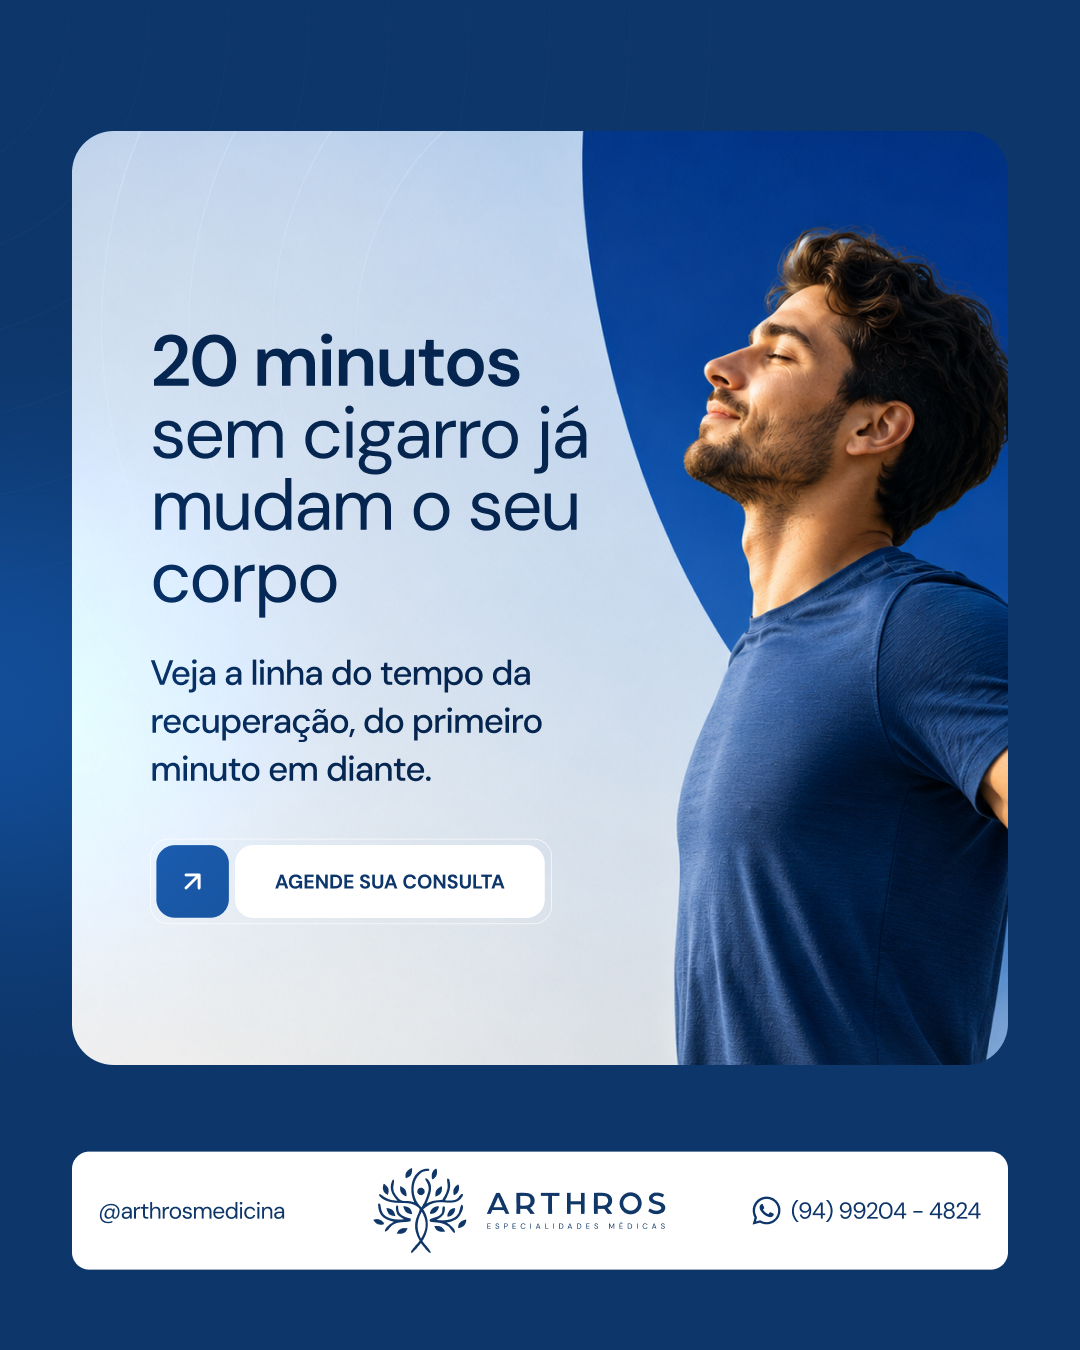
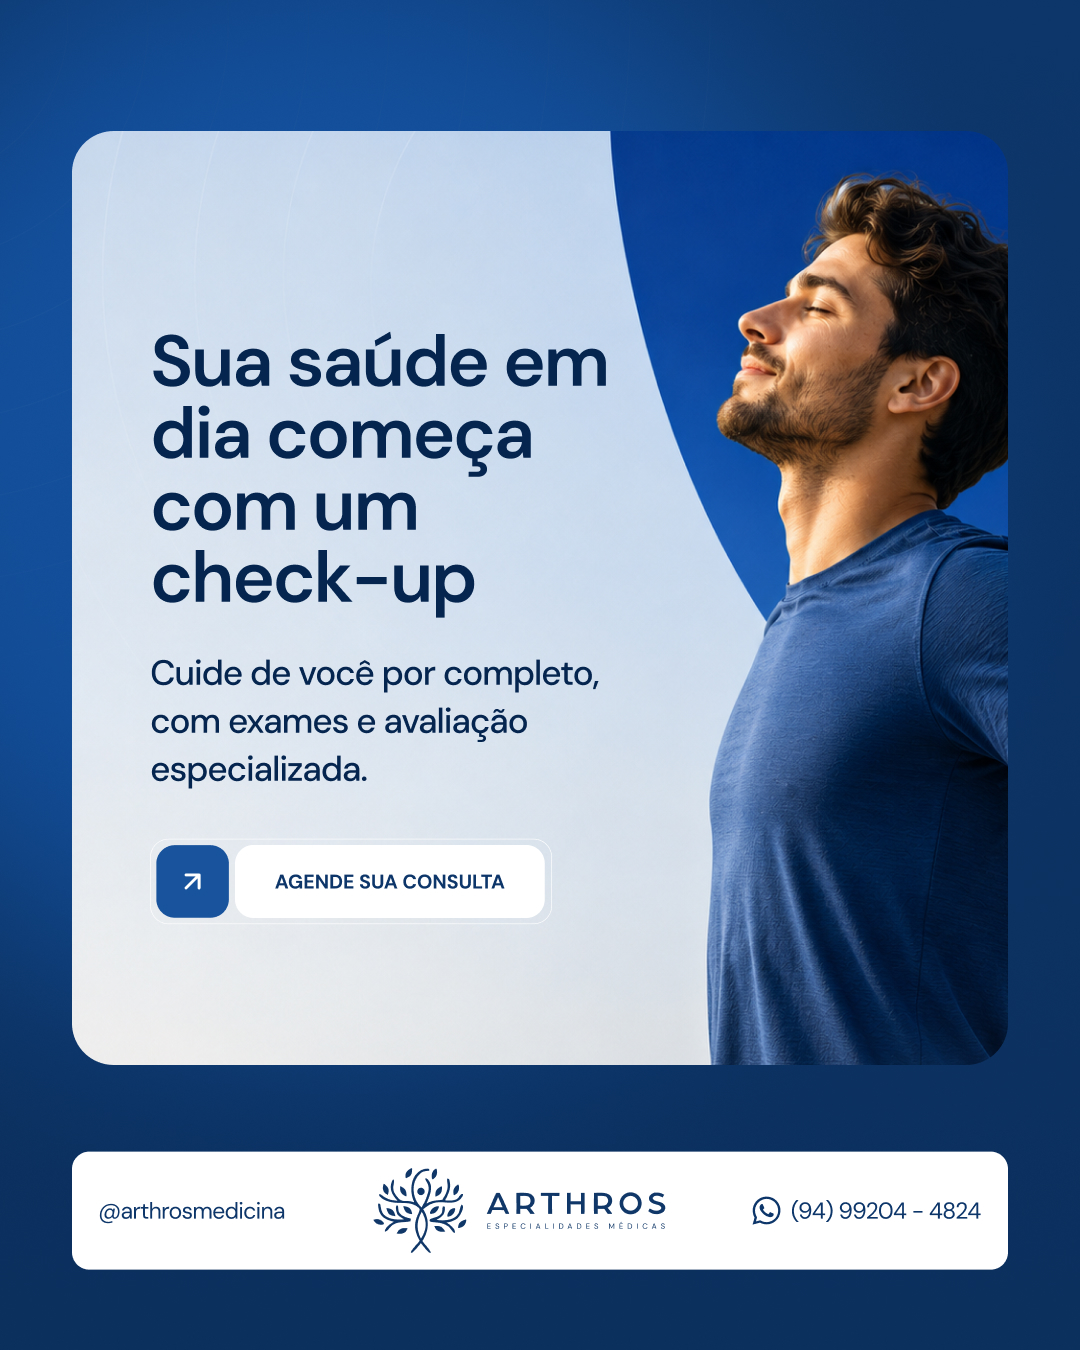
Troca post 4 (Arthros agosto) de vídeo para arte e atualiza post 7
- Post 4 (Estiagem) deixa de ser vídeo/iframe e passa a usar a arte
  final (img/post4.jpg).
- Post 7 (Check-up Completo) recebe a arte final atualizada
  (img/post7.jpg).
- Ajusta timeline, hero e cards de campanha que ainda citavam vídeo.

diff --git a/arthros/agosto/index.html b/arthros/agosto/index.html
@@ -177,7 +177,7 @@ nav { position:fixed; top:0; left:0; right:0; z-index:100; background:rgba(255,2
   <div style="position:relative;z-index:1;width:100%;">
     <div class="hero-tag">Linha Editorial · Agosto 2026</div>
     <h1 class="hero-title">Calendário<br><span>Editorial</span></h1>
-    <p class="hero-sub">7 posts distribuídos por todas as semanas de agosto, com título, subtítulo, CTA, legenda e hashtags prontos para publicar. 6 artes e 1 vídeo.</p>
+    <p class="hero-sub">8 posts distribuídos por todas as semanas de agosto, com título, subtítulo, CTA, legenda e hashtags prontos para publicar.</p>
     <div class="hero-stats">
       <div class="hero-stat"><span class="hero-stat-val">7</span><span class="hero-stat-lbl">Posts</span></div>
       <div class="hero-stat"><span class="hero-stat-val">6</span><span class="hero-stat-lbl">Comemorativos</span></div>
@@ -284,7 +284,7 @@ nav { position:fixed; top:0; left:0; right:0; z-index:100; background:rgba(255,2
           <div class="tl-item">
             <div class="tl-date"><div class="tl-day">13</div><div class="tl-weekday">Quinta</div></div>
             <div class="tl-line"></div>
-            <div class="tl-content"><span class="tl-badge badge-post">Post #4 · Vídeo</span><div class="tl-titulo">Tempo seco em Parauapebas? Seu nariz sente primeiro</div><div class="tl-formato">Vídeo · Otorrino / Pneumologia</div></div>
+            <div class="tl-content"><span class="tl-badge badge-post">Post #4 · Estiagem</span><div class="tl-titulo">Tempo seco em Parauapebas? Seu nariz sente primeiro</div><div class="tl-formato">Arte · Otorrino / Pneumologia</div></div>
           </div>
           <div class="tl-item">
             <div class="tl-date"><div class="tl-day">15</div><div class="tl-weekday">Sábado</div></div>
@@ -444,21 +444,17 @@ R. Araguaia, n° 20 - Rio Verde, Parauapebas - PA
         </div>
       </div>
 
-      <!-- POST 4 - RESPIRATÓRIO (ESTIAGEM) - VÍDEO -->
+      <!-- POST 4 - RESPIRATÓRIO (ESTIAGEM) -->
       <div class="post-card animate animate-delay-3">
-        <div class="post-card-img-ph" style="min-height:0;padding:0;background:#000;">
-          <div style="position:relative;width:100%;padding-bottom:56.25%;">
-            <iframe src="https://drive.google.com/file/d/1-rlh7GPbsNWX-_NL1wYKRanF_iV0DQAb/preview" style="position:absolute;top:0;left:0;width:100%;height:100%;border:0;" allow="autoplay" allowfullscreen></iframe>
-          </div>
-        </div>
+        <div class="post-card-img-ph" style="min-height:0;padding:0;"><img src="img/post4.jpg" alt="" style="width:100%;height:auto;display:block;"></div>
         <div class="post-card-header">
           <div class="post-card-num">04</div>
           <div class="post-card-meta">
-            <div class="post-card-date">13 de agosto · Quinta · Vídeo</div>
+            <div class="post-card-date">13 de agosto · Quinta · Estiagem</div>
             <div class="post-card-titulo">Tempo seco em Parauapebas? Seu nariz sente primeiro</div>
             <div class="post-card-sub">No auge da estiagem, o ar seco e a poeira disparam casos de rinite, sinusite e tosse. Cuidados simples e avaliação evitam que a crise se instale.</div>
           </div>
-          <span class="tl-badge badge-post" style="flex-shrink:0;">Vídeo</span>
+          <span class="tl-badge badge-post" style="flex-shrink:0;">Arte</span>
         </div>
         <div class="post-card-cta">
           <div class="post-card-cta-label">CTA</div>
@@ -692,9 +688,9 @@ R. Araguaia, n° 20 - Rio Verde, Parauapebas - PA
       <div class="regra-card animate animate-delay-2"><div class="regra-icon">💛</div><div class="regra-titulo">Agosto Dourado</div><div class="regra-texto">Campanha de incentivo ao aleitamento materno. Foco em apoio à mãe, pré-natal e pediatria. Post #1 (04/08) dedicado a esta data.</div></div>
       <div class="regra-card animate animate-delay-2"><div class="regra-icon">👨👧👦</div><div class="regra-titulo">Dia dos Pais (09/08)</div><div class="regra-texto">Post afetivo e celebratório em homenagem às figuras paternas. Tom emocional e acolhedor, sem conteúdo institucional. Post #3.</div></div>
       <div class="regra-card animate animate-delay-2"><div class="regra-icon">💜</div><div class="regra-titulo">Agosto Lilás</div><div class="regra-texto">Enfrentamento à violência contra a mulher e Lei Maria da Penha. Foco na saúde e no acolhimento da mulher. Post #6 (20/08).</div></div>
-      <div class="regra-card animate animate-delay-3"><div class="regra-icon">🌵</div><div class="regra-titulo">Estiagem em Parauapebas</div><div class="regra-texto">Auge do período seco: ar seco e poeira. Gancho local de saúde respiratória, em formato de vídeo. Post #4 (13/08).</div></div>
+      <div class="regra-card animate animate-delay-3"><div class="regra-icon">🌵</div><div class="regra-titulo">Estiagem em Parauapebas</div><div class="regra-texto">Auge do período seco: ar seco e poeira. Gancho local de saúde respiratória. Post #4 (13/08).</div></div>
       <div class="regra-card animate animate-delay-3"><div class="regra-icon">🩺</div><div class="regra-titulo">Datas de saúde e feriados</div><div class="regra-texto">Combate ao Colesterol (08/08) e Adesão do Pará (15/08). Posts #2 e #5.</div></div>
-      <div class="regra-card animate animate-delay-3"><div class="regra-icon">📅</div><div class="regra-titulo">Volume e distribuição</div><div class="regra-texto">8 posts em agosto (7 artes + 1 vídeo). Datas comemorativas mantêm o dia exato; os posts evergreen (check-up e enxaqueca) ficam em dias de semana, fora do sábado. Especialidades: Pediatria/Ginecologia, Cardiologia, Otorrino/Pneumo, Saúde da Mulher, Clínica Geral e Neurologia.</div></div>
+      <div class="regra-card animate animate-delay-3"><div class="regra-icon">📅</div><div class="regra-titulo">Volume e distribuição</div><div class="regra-texto">8 posts em agosto, todos em arte. Datas comemorativas mantêm o dia exato; os posts evergreen (check-up e enxaqueca) ficam em dias de semana, fora do sábado. Especialidades: Pediatria/Ginecologia, Cardiologia, Otorrino/Pneumo, Saúde da Mulher, Clínica Geral e Neurologia.</div></div>
     </div>
   </div>
 </section>
